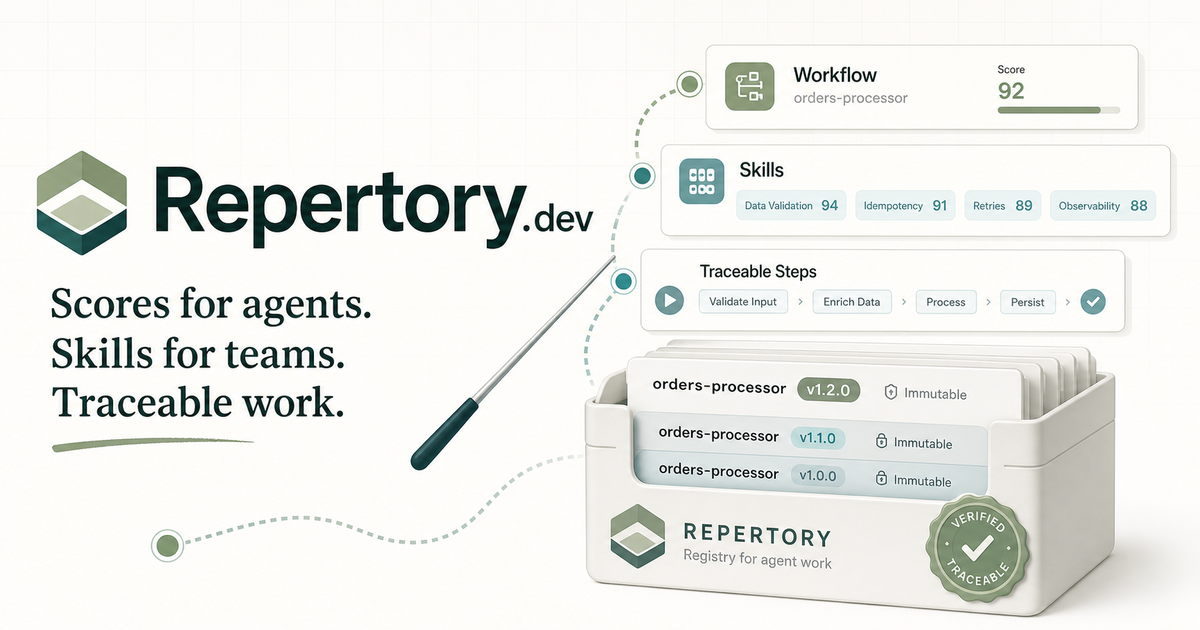
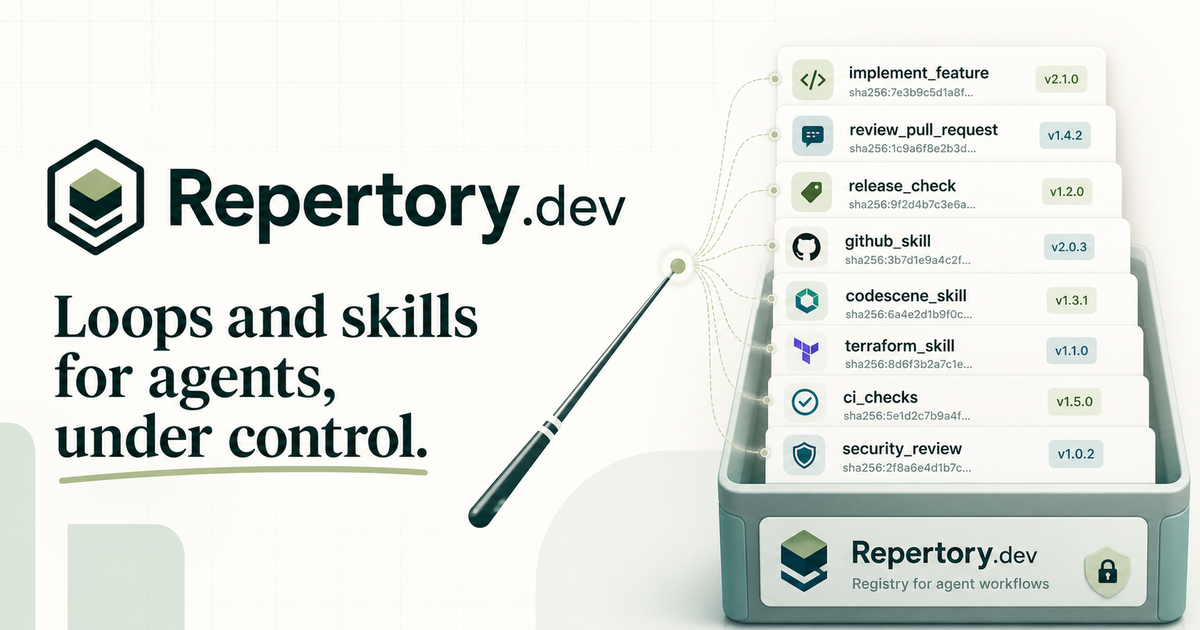
Update Open Graph copy and preview

diff --git a/index.html b/index.html
@@ -6,7 +6,7 @@
     <title>Repertory.dev</title>
     <meta
       name="description"
-      content="Repertory.dev is an upcoming Docker Hub-like registry for auditable agent loops, skills, and collections."
+      content="Loops and skills for agents, under control."
     >
     <link rel="canonical" href="https://repertory.dev/">
     <meta name="theme-color" content="#f7faf7">
@@ -16,7 +16,7 @@
     <meta property="og:title" content="Repertory.dev">
     <meta
       property="og:description"
-      content="Scores for agents. Skills for teams. Traceable work."
+      content="Loops and skills for agents, under control."
     >
     <meta property="og:image" content="https://repertory.dev/og-image.png">
     <meta property="og:image:secure_url" content="https://repertory.dev/og-image.png">
@@ -28,7 +28,7 @@
     <meta name="twitter:title" content="Repertory.dev">
     <meta
       name="twitter:description"
-      content="Scores for agents. Skills for teams. Traceable work."
+      content="Loops and skills for agents, under control."
     >
     <meta name="twitter:image" content="https://repertory.dev/og-image.png">
     <link rel="icon" href="favicon.png" type="image/png">